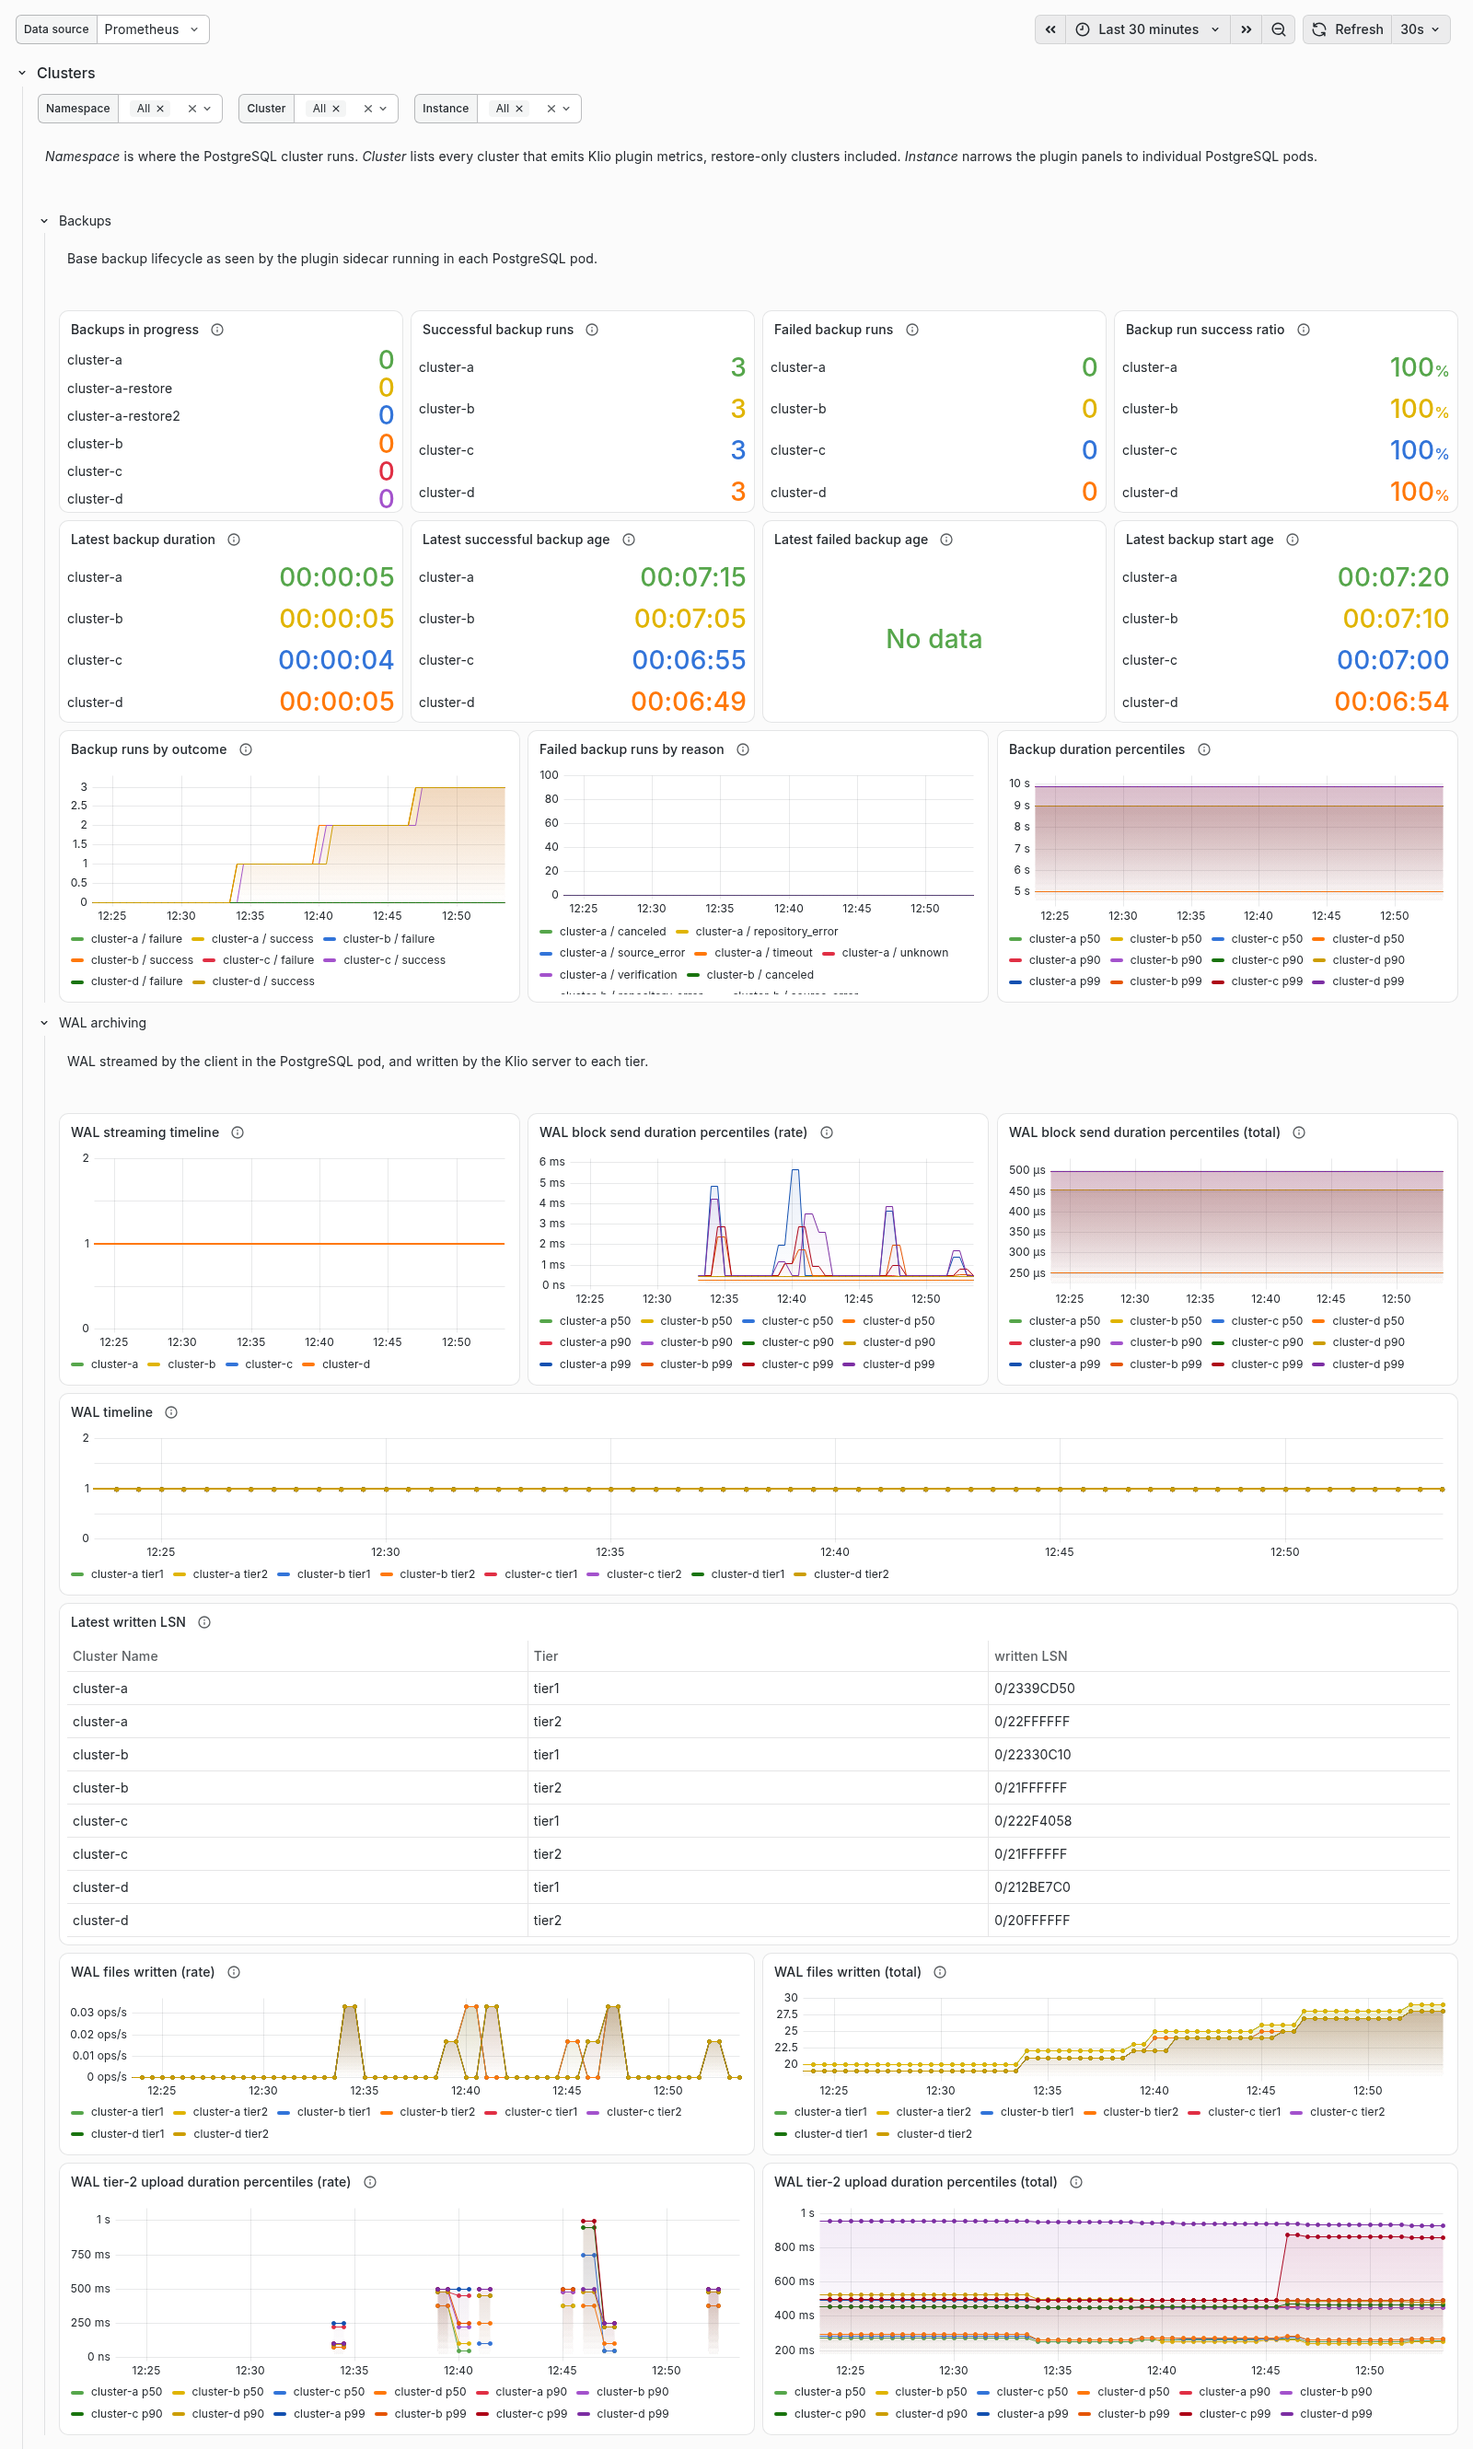
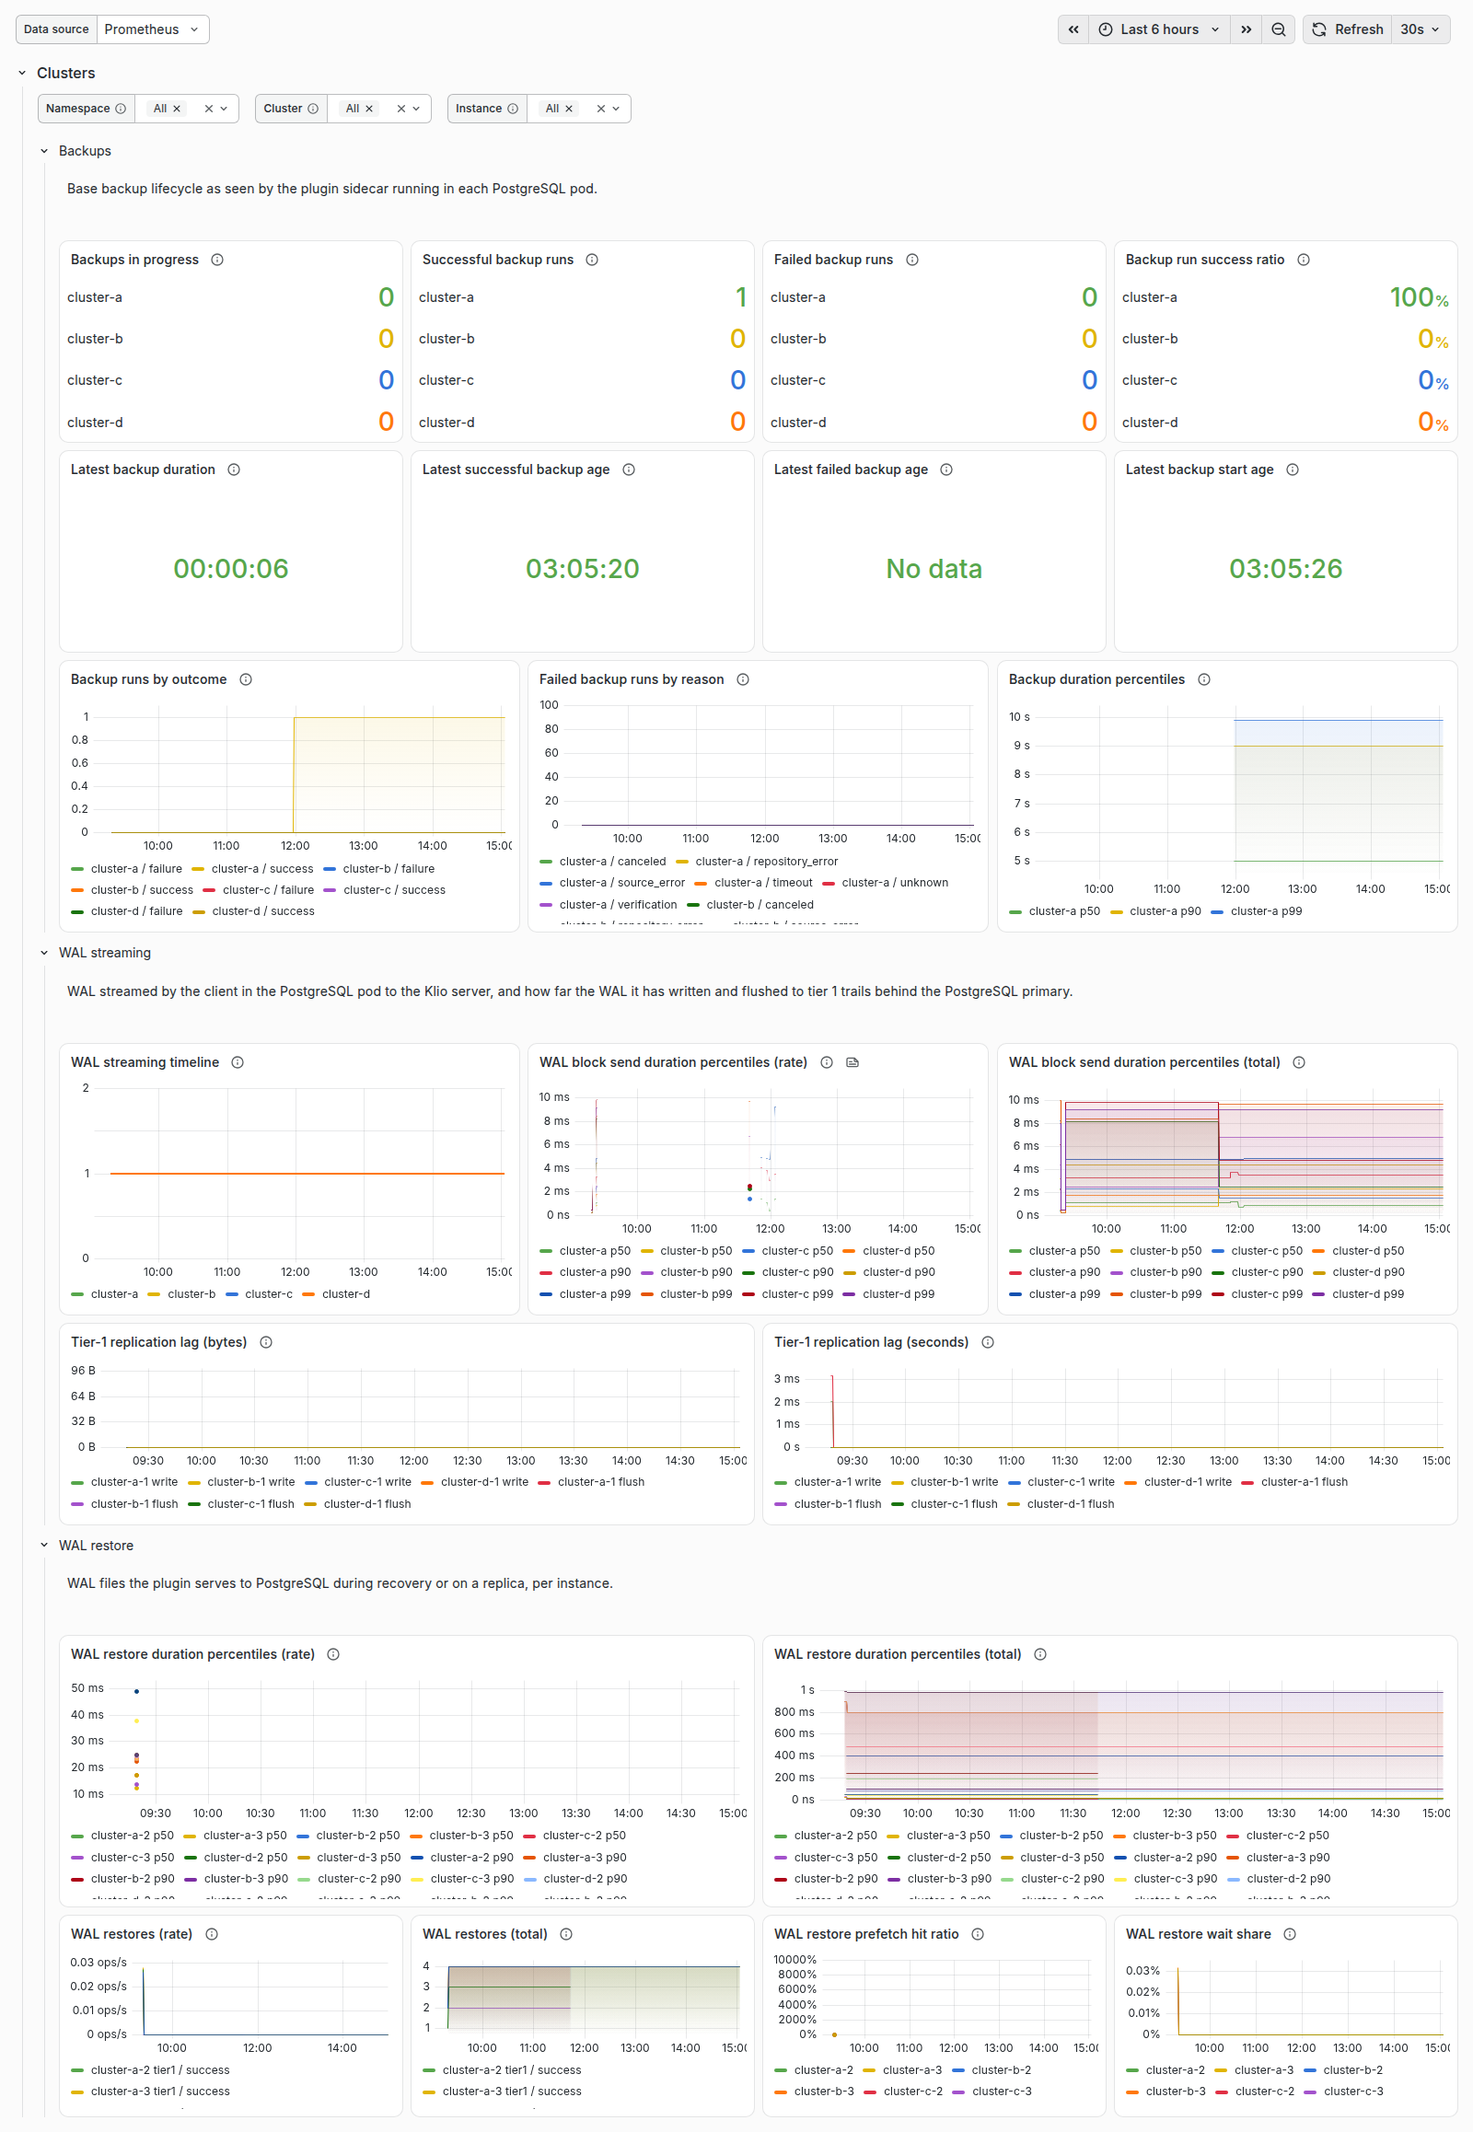
docs: refresh the Grafana dashboard screenshots
Capture the Clusters and Servers sections of the current dashboard over
the last 6 hours. Drop the WAL replication lag screenshot: its panels
are now in the WAL streaming row, which the Clusters screenshot shows.

Assisted-By: Claude

diff --git a/documentation/web/docs/user/grafana-dashboards.md b/documentation/web/docs/user/grafana-dashboards.md
@@ -39,10 +39,6 @@ The **Clusters** section is split into rows:
   disk. These two panels need CloudNativePG monitoring (see the
   prerequisites below).
 
-![Clusters section of the Klio dashboard](images/clusters_dashboard.png)
-
-![Klio WAL replication lag metrics](images/klio_wal_replication_lag_metrics.png)
-
 - **WAL restore** — the WAL restores the plugin serves back to PostgreSQL,
   per instance (pod), since each instance restores its own WAL through its
   own prefetch spool: the p50/p90/p99 restore duration (how long PostgreSQL
@@ -51,6 +47,8 @@ The **Clusters** section is split into rows:
   total by tier and outcome, the prefetch hit ratio, and the share of time
   PostgreSQL spent waiting on the plugin (near 0% when recovery is limited
   by replay, not by Klio).
+
+![Clusters section of the Klio dashboard](images/clusters_dashboard.png)
 
 The **Servers** section is split into rows:
 
